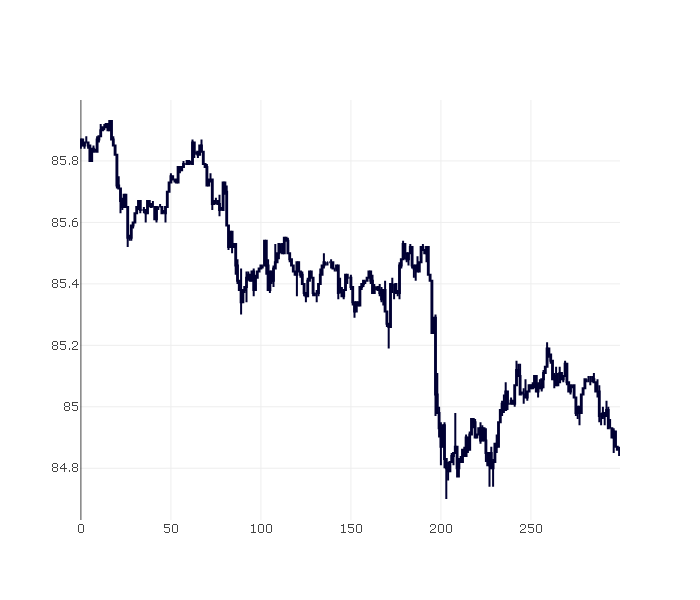
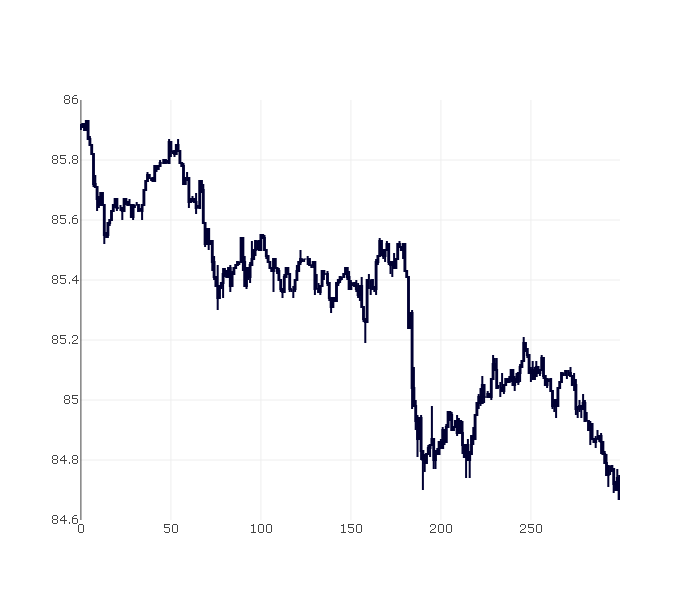
deploy dashboard

diff --git a/config.py b/config.py
@@ -78,7 +78,6 @@ EQUITY_PNG_PATH = "equity_curve.png"
 # =========================================================
 # BITGET API
 # =========================================================
-id="v6pxmq"
 API_KEY = os.getenv("API_KEY")
 API_SECRET = os.getenv("API_SECRET")
 API_PASSWORD = os.getenv("API_PASSWORD")
